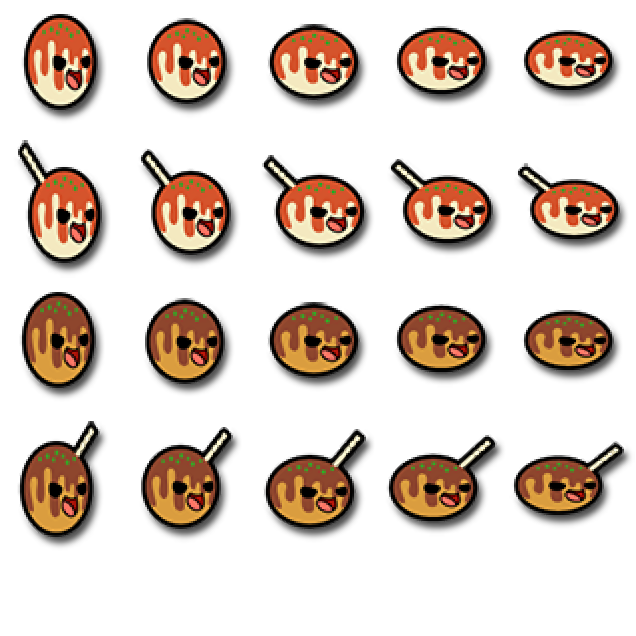
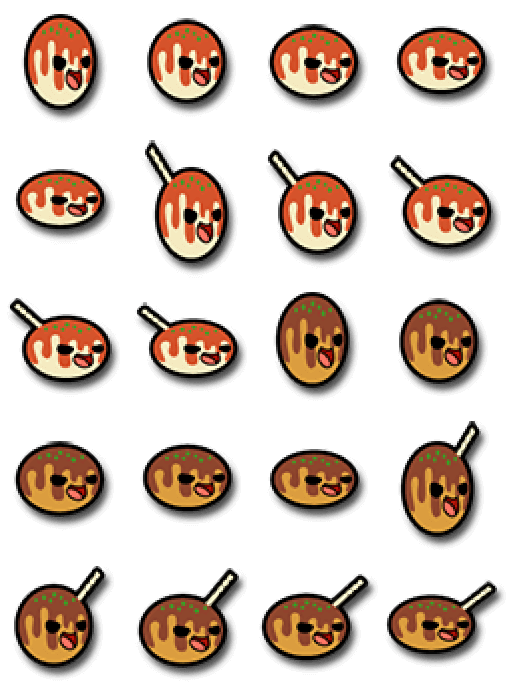
combine drawcall
improve speed

diff --git a/src/project.js b/src/project.js
@@ -1,1 +1,1 @@
[2 lines of base64/hex data omitted]

diff --git a/src/settings.js b/src/settings.js
@@ -1,1 +1,1 @@
-window._CCSettings={platform:"web-mobile",groupList:["default"],collisionMatrix:[[true]],rawAssets:{assets:{}},assetTypes:[],launchScene:"db://assets/Scene/play.fire",scenes:[{url:"db://assets/Scene/play.fire",uuid:0}],packedAssets:{"0590e9b90":["01DS7G/k1Lv5hRjyG+sMIW","02delMVqdBD70a/HSD99FK","025TZJr9VHxqA1VVvth69J","07byVlCcVNLrFbS4OVIeA9","0aIj8ByAZCAY16SXX1yyM+","0eAEPa8elEho3CTqrPHWZo","10UBgTE/ZKQLgaaImM3xbn","10rrhKVPxG1bhC/y53suwe","11xw1YSQFIFrEgF/5KoDYy","14gL/MandKV7MhVumJra7x","1aE+6MDBZPt6+d58dGQaSC","1cEvut1VVItoJyqWLwaeZC","1eLL6jUNtMzb4Ge4brnwWc","1fNmJuX+xAvK0+yjAdIR2K","1f7zatIv1Fvr4eFOgNO5C1","22/lw+DlBFPZW+WGl027OQ","24DiHgQ3JKIpyvgl9iP9bN","28btRc8hBNhqyls7je3N5c","283QM8UXBOAohvMr42EsfI","2aeXsr5ApEoLAPDtN8QrBb","2bJLisXjVBSaQ8mtnbQsvS","2dByl/cHxCy4I6v+Himcg1","2dFxOhWrhGu45xxMHArnnj",0,"2d+terz+VGC6pcFMQ/SFbp","2fpelIUa1Ju7TBhPAM5SUa","34Iwmj+OlBv43WNu8BWK0G","34ow9GIbxKy6E9sbPQ7qdL","35K6hYyXpBAIXYRKL/Ss/S","36V8xrGRZMFZ+ip2JByO3a","36l1v+10hP6JiTAB3CtbKZ","36nbuzAv5Ou4VtvqiJfIyf","37i6ZR15VKNKGDujOxaaQA","370gSRdldOq4YnC356uyff","38Af9FDvhDxKS7u/tVi1WY","38CJVRKyJCrp0mPHe055Xh","39DGOqGENInYMomeijHhg9","3cGrE9mp1HOqVZY9sv7H/W","3eFXvXmUlLGoZnmt8ybOhu","3eOBi02uJFnKhKjGyHIsoA","3eZzibCyFIn4q7dPVeFqcA","404BJXjYZHpaChXrvdYjzE","41D7kWhyFGY7q4NDlzkazn","43q8fsASRKXqf9Ga8IODf2","44RwhLxDVH8IWK9pi8b7xw","440ler7ipEooXgCFPf0Ses","454q6Wc+VBdp73VuGRpq2a","47GQaebt9MALxj/nD70s99","4bLryvTohO67vWWsiOdbfL","4dOaTH9S1Pd7OSFXITPQoY","4dzYTG/M5OmrfihWyPEHtL","53fdLCAkROdKgyT7fcd2Vm","54QwlQ2llPTqkVUv0Ub/Wv","547DD1Bx1NxaZLzIx5JnCq","554rJs0pJPCKZE+JLzGdP5","56BE/amOdDV45z1bTldmJ1","5b/zRxMc1PJrFVs31eAbSx","5fzf51QfZNnaA9QJyDXEtT","62A+lqx3FBkLterofzhdUl","63h4+5qIdFuoT5G30hSDso","65195bMdNHPKeEd7Vt9TVV","67j8cp579D7o9/BUA0aea5","69vfgjqjxPMY2T2OHSJ3Ts","6ceE4AycNM+5MzXmRp2IA0","6fBFT0V6dFXJuTx2Zel/rh","6f04UXM2FHJY/IAcesjEkg","72Hrbp4jpNpIDUrBr+Bh7R","72RlGIdThPvKoYy6VEBDP7","726VbGWGxASbp3aZN2b6UO","732hpgCrZAua2wcEA0/qXX","78RYYkYyBKuJ1YYreVGDYg","7bJz1tZyFDdK+txkCsZUf7","7bjaltcsJC7qdVMuZebWyP","7ezEIvcLRD3J845uvAemFB","80DhSbNTVIgZwslDqrCRPn","80yuIy31dFfJN2mJdSZjkf","82LbFi225JrK1JwOhIPlvg","8320u8cwlMEolq82WccOex","84SE0odshCmI8CPtbMEvHM","85KsxXGutBKJldUjrfAKxp","86tdFsffpC96H+Eb+KAjWK","89QVNqqFZFNasQKZz72gPQ","8aT1ndmjFPyoqpgtW+JVtw","8bS10stuRFOZdIanldRxqh","8fQpFsN9tPKq5VyMEe0ngn","91db8mTsFF3ZgyuFmm5YSO","91ovPUGGxHiItzPbekPOEm","95w4uosfxCPJokr1SRPhNk","96310Xz+tDz6FGfJkwmKdm","976OS7UKBCkYk+JjshUW74","9aTMQ+uFxIr7DHiHLoHUXe","9compFxiRITYAkq568uAyj","9dmiKT3E5DG5Psym2Fun9a","9ePql77MtCrJ8pQaOcL0wW","9fnMjmOP5Erozj9G46juVO","9foB13yuNDDaX5rioaqdXR","a2MjXRFdtLlYQ5ouAFv/+R","a47Ctrhk9PvYcI3QmN8a4k","a5qH9XIf5JTp8r0NAAM/g9","a7DCQPeENAMKM/w//RFmuw","a8Anh32NZGRZegUtSgEj26","aeBsKlO5tM8JGo3E3g92he","afN7ihVypAgpJyDzKH5YNP","afgOMe4JBGs4tfLoUl7UBW","b11JaKH2NBTbIgwOYjFmve","b5nG5S7kpBf4WLM8wyaubw","b7TdhbBZZMlId/vbRJeg+C","bagQ5YQ+9LwZjQikAnoERK","bawpRd1UJDronPkZpzPTHZ","bcB1nPFTlM0q+cbeZmRm+N","bdGrC5IYRMw7DMbWj9X3E4","bfpPz7Di9FNoblUqi8cljj","c1/lIeW8FFwbx5LE8ImyQ7","c5LdyBaQBMtK7YnXQLguj7","c5sRIKiTlBfZO1ioZyOq/O","c9OqS1vNdAtrFQsWBngQHh","c94nrXHqRLNJXjQ7ujPLEg","cdEq0ENn9ExZaY8/CTCafL","ceLJWyR5pG7YnFABoxFE5l","ceSDjnTjNDu4Y5MsH/Dvak","d2CrLwHflHhpKhExYA6sfP","d4PcSy11xI6rOdi3dc3Msq","d8qxV/UzVDMLU+AX52AoMY","daiJB5hG5AGoMnaXytllzb","dc4iZ8modAk57ZWe699pGH","ddLR2vNtxLy611Wtb+tMnx","ddY/o83gpCNJhRH+VPYjNR","deBkmKlt9J0rM5YIJGr0k1","deqcBkJNtBaYIlbXfa+9ih","e4CTgpEWdGu7GV8+Hl8R5N","e5NpevfHRLoLhFc9SnO6nx","e7Gd38QiJL0aTQFZJPyMyR","ebq352hpxGbrQmETipZIqv","ecQNq+IhNIKItG9/oU4mFd","edyYz2Hg5INKJL1O0spjWF","eea9oY6PdJdrcVXAVXNszx","f4BHDmHRVJNq7KghjHRh8K","f4Sr4aoP1HFr22QpNiORrR","f4+wQenjVDerELRqJvNS3S","f5f+XkGMBMDIWN2FmqmgtP","fbiWqI+epEkps7gEJ7iLDs","fcJr0PCk5KMbWNMx8CURD0","feMVT+CSlJxazJd2N0VMUj"]},md5AssetsMap:{},orientation:"landscape",subpackages:{},uuids:["2dL3kvpAxJu6GJ7RdqJG5J"]};
+window._CCSettings={platform:"web-mobile",groupList:["default"],collisionMatrix:[[true]],rawAssets:{assets:{}},assetTypes:[],launchScene:"db://assets/Scene/play.fire",scenes:[{url:"db://assets/Scene/play.fire",uuid:0}],packedAssets:{"0324e6102":["01DS7G/k1Lv5hRjyG+sMIW","01Ja3LZ1VLB5a/f1T5VgV7","025TZJr9VHxqA1VVvth69J","07byVlCcVNLrFbS4OVIeA9","0aIj8ByAZCAY16SXX1yyM+","0eAEPa8elEho3CTqrPHWZo","10UBgTE/ZKQLgaaImM3xbn","10rrhKVPxG1bhC/y53suwe","14gL/MandKV7MhVumJra7x","1aE+6MDBZPt6+d58dGQaSC","1cEvut1VVItoJyqWLwaeZC","1dCBy4bzlBBqJ92FYtTbkm","1fNmJuX+xAvK0+yjAdIR2K","1f7zatIv1Fvr4eFOgNO5C1","21PR84V2VM5YQMHLvUnLiL","22/lw+DlBFPZW+WGl027OQ","24DiHgQ3JKIpyvgl9iP9bN","256mVGqH9IgbrqHq/mJNX8","283QM8UXBOAohvMr42EsfI","2aTkUmcANMvqBr8Lf+A7Ud","2aeXsr5ApEoLAPDtN8QrBb","2bJLisXjVBSaQ8mtnbQsvS","2dByl/cHxCy4I6v+Himcg1","2dFxOhWrhGu45xxMHArnnj","2fpelIUa1Ju7TBhPAM5SUa","30s4ycPOlK8YbfM2NdUMQZ","34Iwmj+OlBv43WNu8BWK0G","34ow9GIbxKy6E9sbPQ7qdL","341AzJC0NIZJVhnQsiYNsm","35K6hYyXpBAIXYRKL/Ss/S","36V8xrGRZMFZ+ip2JByO3a","36l1v+10hP6JiTAB3CtbKZ","37i6ZR15VKNKGDujOxaaQA","370gSRdldOq4YnC356uyff","38Af9FDvhDxKS7u/tVi1WY","38CJVRKyJCrp0mPHe055Xh","39DGOqGENInYMomeijHhg9","3cGrE9mp1HOqVZY9sv7H/W","3eFXvXmUlLGoZnmt8ybOhu","3eZzibCyFIn4q7dPVeFqcA","404BJXjYZHpaChXrvdYjzE","41D7kWhyFGY7q4NDlzkazn","43q8fsASRKXqf9Ga8IODf2","44B5pm/bRAeIVTdMq7YZfM","44RwhLxDVH8IWK9pi8b7xw","440ler7ipEooXgCFPf0Ses","454q6Wc+VBdp73VuGRpq2a","47GQaebt9MALxj/nD70s99","4bLryvTohO67vWWsiOdbfL","4dOaTH9S1Pd7OSFXITPQoY","4dzYTG/M5OmrfihWyPEHtL","4eP3doH41JkpW7TfhTPy/H","53fdLCAkROdKgyT7fcd2Vm","54QwlQ2llPTqkVUv0Ub/Wv","547DD1Bx1NxaZLzIx5JnCq","554rJs0pJPCKZE+JLzGdP5","56BE/amOdDV45z1bTldmJ1","57qlUN//JJ7LSJWcJMzfzU","5fmCgKrtFCvZXOxROIpNa3","5fzf51QfZNnaA9QJyDXEtT","62A+lqx3FBkLterofzhdUl","65195bMdNHPKeEd7Vt9TVV","67j8cp579D7o9/BUA0aea5","69vfgjqjxPMY2T2OHSJ3Ts","6bDHwvC9ZBPrOAylGCmDMh","6ceE4AycNM+5MzXmRp2IA0","6fBFT0V6dFXJuTx2Zel/rh","6f04UXM2FHJY/IAcesjEkg","72AGO8xTxG7IFL1MtGC1W7","726VbGWGxASbp3aZN2b6UO","732hpgCrZAua2wcEA0/qXX","78RYYkYyBKuJ1YYreVGDYg","7bJz1tZyFDdK+txkCsZUf7","7bjaltcsJC7qdVMuZebWyP","7cZF7LTFVC1bHDFQvRf5JH","7d7eVgsg9Fv7Cnvl5Jc6iI","7edmSnpBhLLKRwcdE/PW3v","7ezEIvcLRD3J845uvAemFB","80DhSbNTVIgZwslDqrCRPn","80yuIy31dFfJN2mJdSZjkf","82LbFi225JrK1JwOhIPlvg","82zoVjduhPOoQndnLV5qBj","8320u8cwlMEolq82WccOex","84SE0odshCmI8CPtbMEvHM","85KsxXGutBKJldUjrfAKxp","86tdFsffpC96H+Eb+KAjWK","87M+k9LjxBxYxOpEmg8Y4/","89QVNqqFZFNasQKZz72gPQ","8aT1ndmjFPyoqpgtW+JVtw","8bS10stuRFOZdIanldRxqh","8fQpFsN9tPKq5VyMEe0ngn",0,"91db8mTsFF3ZgyuFmm5YSO","91ovPUGGxHiItzPbekPOEm","93Nyg967dKGrqLDiv2UFa8","95w4uosfxCPJokr1SRPhNk","96Wi7n4TZL8LLWaimoU2o4","97tT5uOrxA4rriIoYDNQ2t","976OS7UKBCkYk+JjshUW74","9aTMQ+uFxIr7DHiHLoHUXe","9cU2mlhzRCXrrJPb6f+F5L","9compFxiRITYAkq568uAyj","9dmiKT3E5DG5Psym2Fun9a","9dxIiaYWdDTJr2BxoxRMNr","9ePql77MtCrJ8pQaOcL0wW","9foB13yuNDDaX5rioaqdXR","a47Ctrhk9PvYcI3QmN8a4k","a5qH9XIf5JTp8r0NAAM/g9","a7DCQPeENAMKM/w//RFmuw","a8Anh32NZGRZegUtSgEj26","aeBsKlO5tM8JGo3E3g92he","afN7ihVypAgpJyDzKH5YNP","afgOMe4JBGs4tfLoUl7UBW","b5nG5S7kpBf4WLM8wyaubw","b7TdhbBZZMlId/vbRJeg+C","bagQ5YQ+9LwZjQikAnoERK","bawpRd1UJDronPkZpzPTHZ","bcB1nPFTlM0q+cbeZmRm+N","bdGrC5IYRMw7DMbWj9X3E4","ber3NVHehHs5mDozdfQ+u6","bfpPz7Di9FNoblUqi8cljj","c0qfT8V/xI1ZidXZbfKaBX","c41qvgX4tDS6F7q9SOtmDJ","c5sRIKiTlBfZO1ioZyOq/O","c94nrXHqRLNJXjQ7ujPLEg","cdEq0ENn9ExZaY8/CTCafL","ceLJWyR5pG7YnFABoxFE5l","ceSDjnTjNDu4Y5MsH/Dvak","d2CrLwHflHhpKhExYA6sfP","d4PcSy11xI6rOdi3dc3Msq","d8qxV/UzVDMLU+AX52AoMY","daiJB5hG5AGoMnaXytllzb","dc4iZ8modAk57ZWe699pGH","ddY/o83gpCNJhRH+VPYjNR","deBkmKlt9J0rM5YIJGr0k1","deqcBkJNtBaYIlbXfa+9ih","e4CTgpEWdGu7GV8+Hl8R5N","e5NpevfHRLoLhFc9SnO6nx","e7Gd38QiJL0aTQFZJPyMyR","ebq352hpxGbrQmETipZIqv","ecQNq+IhNIKItG9/oU4mFd","edw79uUFRNYJKd3BiawaGy","edyYz2Hg5INKJL1O0spjWF","eea9oY6PdJdrcVXAVXNszx","f4BHDmHRVJNq7KghjHRh8K","f4Sr4aoP1HFr22QpNiORrR","f5f+XkGMBMDIWN2FmqmgtP","fbaoi6fsVGAqn8i5RoLBcp","fbiWqI+epEkps7gEJ7iLDs","feMVT+CSlJxazJd2N0VMUj"]},md5AssetsMap:{},orientation:"landscape",subpackages:{},uuids:["90/YPbXshN9KeNuc57qsXr"]};

diff --git a/index.html b/index.html
@@ -3,7 +3,7 @@
 <head>
   <meta charset="utf-8">
 
-  <title>YUE SAI | TaiKo</title>
+  <title>Yumelf | TaiKo</title>
 
   <!--http://www.html5rocks.com/en/mobile/mobifying/-->
   <meta name="viewport"

diff --git a/style-mobile.css b/style-mobile.css
@@ -84,7 +84,7 @@ p.footer {
   width: 100%;
   height: 100%;
   background: #171717 url(./splash.png) no-repeat center;
-  background-size: 40%;
+  /*background-size: 40%;*/
 }
 
 .progress-bar {
